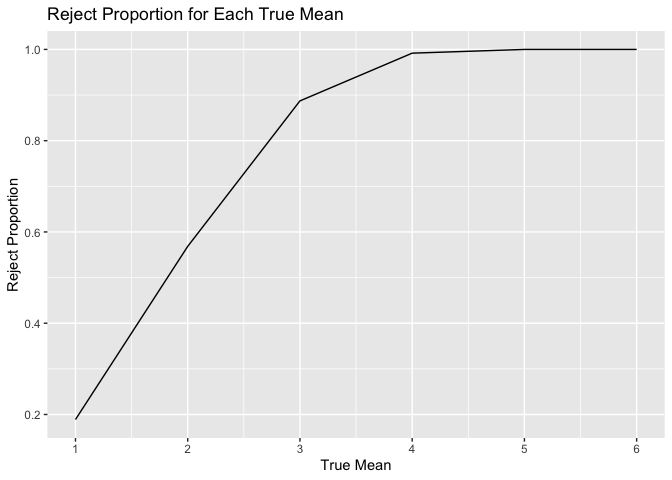
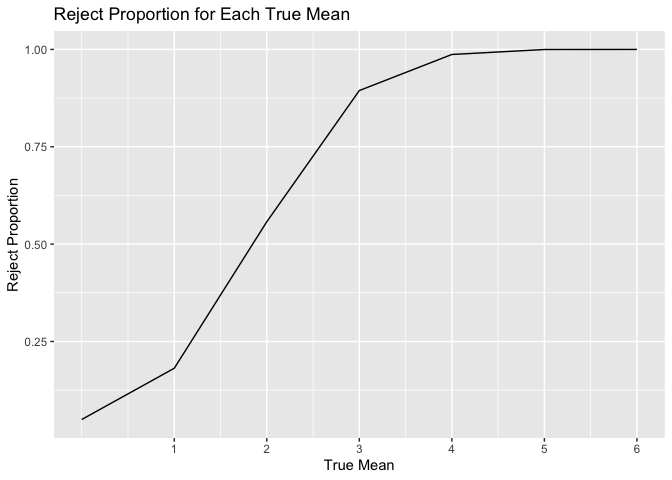
finish visualization for problem 3

diff --git a/p8105_hw5_yy3439.md b/p8105_hw5_yy3439.md
@@ -281,7 +281,7 @@ simulation = function(true_mean){
 
 sim_results_df = 
   expand_grid(
-    true_mean = c(1,2,3,4,5,6),
+    true_mean = c(0,1,2,3,4,5,6),
     iter = 1:5000
   ) |> 
   mutate(
@@ -308,7 +308,41 @@ sim_results_df|>
 ```
 
 ![](p8105_hw5_yy3439_files/figure-gfm/visualization_p3_1-1.png)<!-- -->
+
 Based on the above graph, we can see that, as the true mean increases,
 the proportion of rejected null hypothesis increases. This association
 can be interpreted as larger effect size would increase the power of the
 study.
+
+### Visualization: Part 2
+
+``` r
+sim_results_df|>
+  group_by(true_mean)|>
+  summarise(avg_estimate = mean(estimate))|>
+  ggplot(aes(x= true_mean, y = avg_estimate))+
+  geom_line()+
+  scale_x_continuous(breaks = c(1:6))+
+  labs(title = "Average Estimate for Each True Mean")+
+  xlab("True Mean")+
+  ylab("Average Estimate")
+```
+
+![](p8105_hw5_yy3439_files/figure-gfm/visualization_p3_2-1.png)<!-- -->
+
+### Visualization: Part 3
+
+``` r
+sim_results_df|>
+  filter(p.value < 0.05)|>
+  group_by(true_mean)|>
+  summarise(avg_estimate_rej = mean(estimate))|>
+  ggplot(aes(x= true_mean, y = avg_estimate_rej))+
+  geom_line()+
+  scale_x_continuous(breaks = c(1:6))+
+  labs(title = "Average Estimate of Rejected for Each True Mean")+
+  xlab("True Mean")+
+  ylab("Average Estimate of Rejected")
+```
+
+![](p8105_hw5_yy3439_files/figure-gfm/unnamed-chunk-15-1.png)<!-- -->
